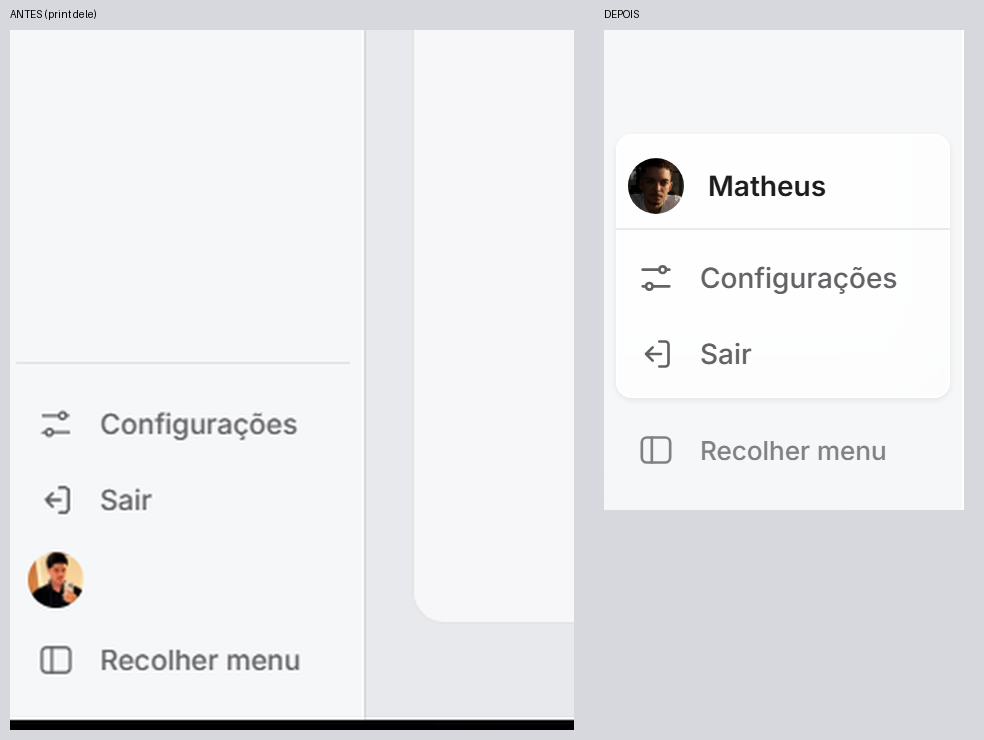
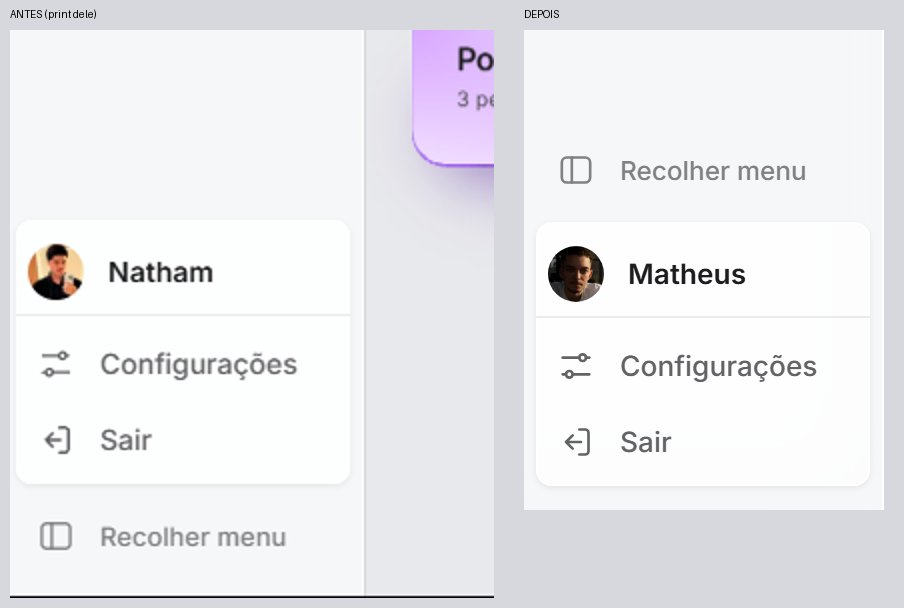
Item 187: Recolher menu passa para cima do cartao de perfil

diff --git a/src/components/casca/Menu.tsx b/src/components/casca/Menu.tsx
@@ -61,6 +61,10 @@ export function Menu({ recolhido, alternar, caminho }: Props) {
         {ITENS.map((i) => <Item key={i.href} item={i} caminho={caminho} />)}
       </ul>
       <div className="menu-pe">
+        <button type="button" className="menu-item menu-alterna" onClick={alternar} aria-label={acao} aria-expanded={!recolhido} title={acao}>
+          <Icone nome="recolher" />
+          <span className="menu-rotulo">{acao}</span>
+        </button>
         {/* Cartão de perfil (item 187): foto + nome de quem está logado, com Configurações e Sair no mesmo vidro do cabeçalho. Sem pessoa ligada ao login, só os dois itens. */}
         <div className="menu-perfil">
           {eu && (
@@ -74,10 +78,6 @@ export function Menu({ recolhido, alternar, caminho }: Props) {
             <li><BotaoSair /></li>
           </ul>
         </div>
-        <button type="button" className="menu-item menu-alterna" onClick={alternar} aria-label={acao} aria-expanded={!recolhido} title={acao}>
-          <Icone nome="recolher" />
-          <span className="menu-rotulo">{acao}</span>
-        </button>
       </div>
     </nav>
   );

diff --git a/src/components/casca/casca.css b/src/components/casca/casca.css
@@ -61,7 +61,7 @@ html[data-menu="recolhido"] { --menu-w: 64px; --menu-p: var(--s-8); --menu-recuo
 .menu-rotulo { transition: opacity var(--dur-rapida) var(--curva); }
 
 /* Rodapé (item 187): cartão de perfil no mesmo vidro do cabeçalho (cantos de 8px, contorno por sombra interna para não deslocar a coluna dos ícones),
-   foto na coluna dos ícones, e Recolher menu solto embaixo, mais discreto. */
+   foto na coluna dos ícones, e Recolher menu solto ACIMA do cartão, mais discreto. */
 .menu-pe { display: flex; flex-direction: column; gap: var(--s-8); margin-top: auto; }
 .menu-perfil {
   display: flex; flex-direction: column; gap: 2px; padding-block: var(--s-4); overflow: hidden; border-radius: 8px;

diff --git a/docs/levas/2026-10-18-grade-de-conteudo-beec.md b/docs/levas/2026-10-18-grade-de-conteudo-beec.md
@@ -257,4 +257,4 @@ Fotos dele em `docs/referencias/2026-10-19-rodada-4/` (01 a 11). Instruções: `
 
 - [x] 186 · Menu lateral, topo (21/10, print 186-print-cabecalho-menu.png): "quero que o Tarefas na parte de cima fique dividido, como um cabeçalho com efeito vidro com apenas a logo e o nome Tarefas junto. A logo sem esse quadro atrás dela, apenas a logo mesmo." = o topo do menu virou faixa própria de vidro (branco 55% + desfoque do projeto + filete embaixo), de borda a borda, com só a logo (`fivecon.png`, sem o quadrado branco) e "Tarefas" lado a lado, centrados. Recolhido e celular: só a logo, centrada (medida: 31,5 de 32). Do item 174 ficou o centro; saiu o selo quadrado, que o pedido contradiz · só `Menu.tsx` e `casca.css` · estado: FEITO, provas/r24-menu-cabecalho-rodape/ (fotos.mjs, lado-a-lado-186-cabecalho.png), NÃO publicado
 
-- [x] 187 · Menu lateral, rodapé (21/10, print 187-print-rodape-menu.png): "Organize esse rodapé do menu, deixe ele com mais personalidade, organizado, alinhado" = cartão de perfil de vidro (mesma receita do cabeçalho, cantos de 8px): foto redonda + nome de quem está logado, divisória fina, e Configurações e Sair dentro do mesmo cartão, no mesmo tamanho e alinhamento dos itens de cima. "Recolher menu" ficou solto embaixo, mais discreto. Foto, ícones e botão na mesma coluna (medido: centro a 26px aberto, 32px recolhido, 28px no celular, nos dois logins). Papel e e-mail não existem no dado, então não aparecem (o nome vem de `NOME_PESSOA`, agora exportado de `Pessoa.tsx`). Recolhido: foto + 2 ícones empilhados, centralizados · estado: FEITO, provas/r24-menu-cabecalho-rodape/ (Natham e Matheus, 1440 aberto e recolhido, 390; lado-a-lado-187-*.png), NÃO publicado
+- [x] 187 · Menu lateral, rodapé (21/10, print 187-print-rodape-menu.png): "Organize esse rodapé do menu, deixe ele com mais personalidade, organizado, alinhado" = cartão de perfil de vidro (mesma receita do cabeçalho, cantos de 8px): foto redonda + nome de quem está logado, divisória fina, e Configurações e Sair dentro do mesmo cartão, no mesmo tamanho e alinhamento dos itens de cima. "Recolher menu" ficou solto ACIMA do cartão (adendo do Natham, print 187b-print-recolher.png), mais discreto. Foto, ícones e botão na mesma coluna (medido: centro a 26px aberto, 32px recolhido, 28px no celular, nos dois logins). Papel e e-mail não existem no dado, então não aparecem (o nome vem de `NOME_PESSOA`, agora exportado de `Pessoa.tsx`). Recolhido: foto + 2 ícones empilhados, centralizados · estado: FEITO, provas/r24-menu-cabecalho-rodape/ (Natham e Matheus, 1440 aberto e recolhido, 390; lado-a-lado-187-*.png), NÃO publicado
